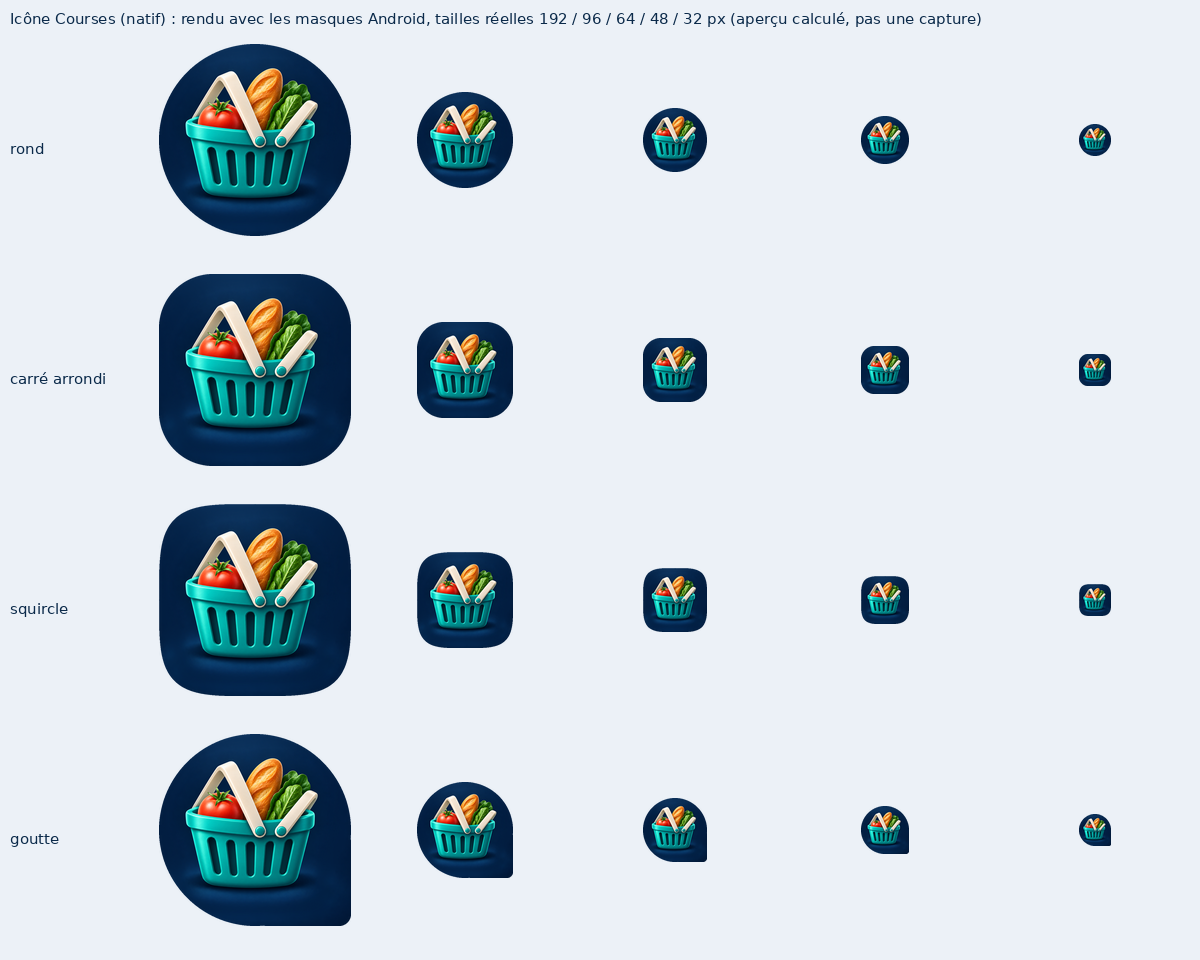
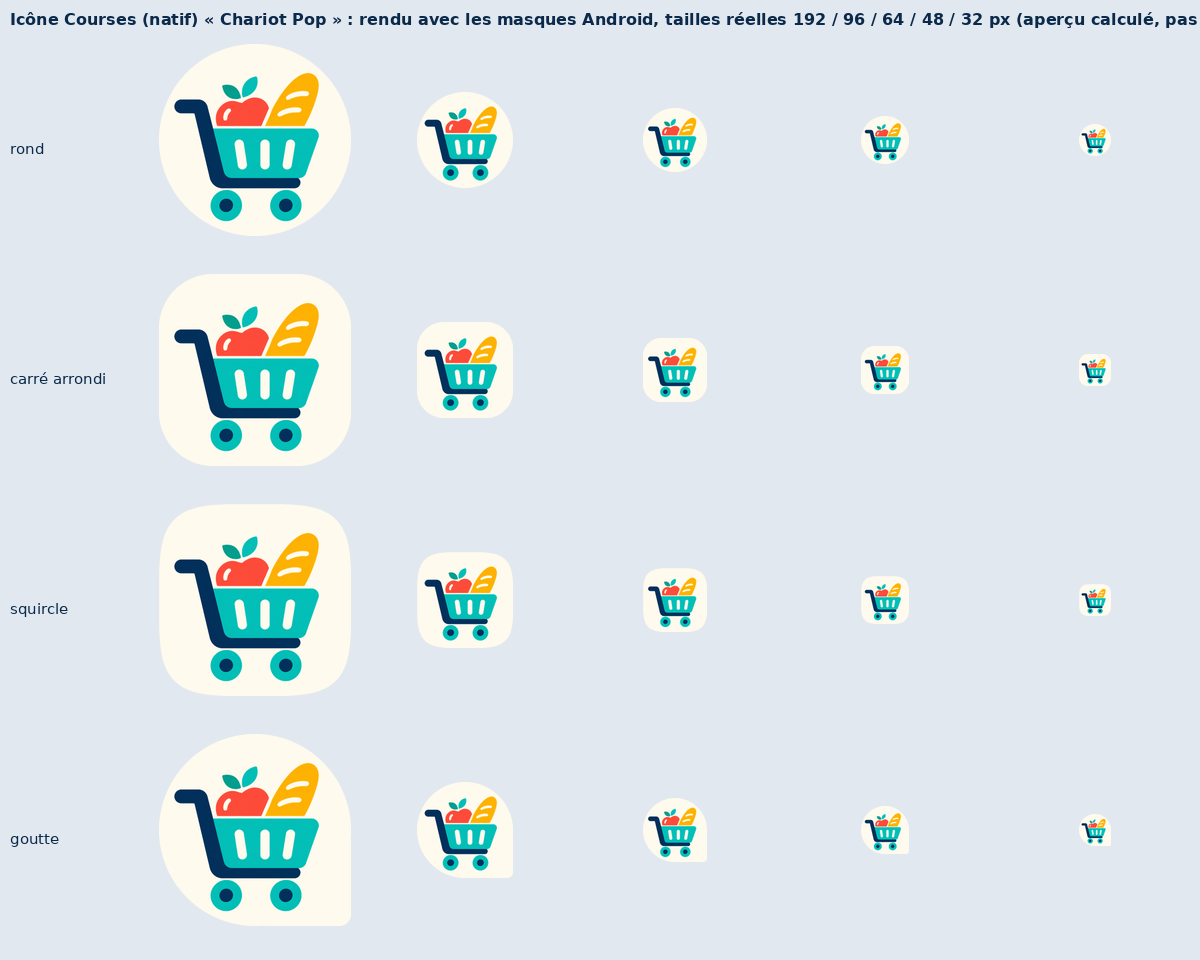
Natif : icône « Chariot Pop » (adaptative, monochrome, démarrage, Google Play 512, anciens appareils) [captures]
Claude-Session: https://claude.ai/code/session_01FECw7ZbTKUbi6W7escaKrV

diff --git a/scripts/make-native-icon.py b/scripts/make-native-icon.py
@@ -1,10 +1,12 @@
 #!/usr/bin/env python3
-"""Fabrique les ressources d'icône de l'application Android native à partir de l'image fournie (android-native/icon/courses-icon-source.png).
-Les pixels de l'image ne sont jamais redessinés ni recolorés : l'image est seulement mise à l'échelle et placée.
- - premier plan adaptatif : l'image elle-même, bords fondus (seule la marge bleu nuit s'efface) ;
- - arrière-plan adaptatif : le fond bleu nuit de l'image, débarrassé du panier (reconstitué par diffusion) et prolongé ;
- - monochrome : silhouette du panier (alpha) pour les icônes thématiques ;
- - anciennes icônes (carrée, ronde), écran de démarrage, PNG 512 Google Play ;
+"""Fabrique les ressources d'icône de l'application Android native à partir de l'image validée « Chariot Pop »
+(android-native/icon/courses-icon-source.png : chariot turquoise et bleu nuit, pomme corail, pain jaune, fond ivoire).
+Le dessin, les couleurs et les proportions ne sont jamais redessinés : l'image est seulement détourée sur son fond ivoire uni
+(le fond est reconstitué par la couleur d'arrière-plan), mise à l'échelle et centrée.
+ - premier plan adaptatif : le chariot, fond transparent, dans la zone sûre (66 dp de diamètre sur 108 dp) ;
+ - arrière-plan adaptatif : l'ivoire uni de l'image (aucun coin arrondi : Android applique le masque) ;
+ - monochrome : silhouette du chariot (alpha), fentes et reflets ajourés ;
+ - anciennes icônes (avant Android 8), écran de démarrage, PNG 512 × 512 Google Play (préparé, non publié) ;
  - aperçus avec masques rond / carré arrondi / squircle / goutte.
 Usage : python3 scripts/make-native-icon.py"""
 import os
@@ -14,201 +16,89 @@ from PIL import Image, ImageDraw, ImageFilter, ImageFont
 SRC = "android-native/icon/courses-icon-source.png"
 RES = "android-native/app/src/main/res"
 OUTDOCS = "docs/native/icone"
-SAFE_DP = 33.0
-FG_SCALE = float(os.environ.get("FG_SCALE", "1.0"))   # réduction du premier plan seul (0.85 = -15 %)
-FG_MODE = os.environ.get("FG_MODE", "image")          # image : image entière à bords fondus ; panier : image exacte, opaque autour du panier seulement
-DRY = os.environ.get("DRY") == "1"                    # DRY=1 : ne touche à aucune ressource, produit seulement la comparaison dans docs/native/icone-comparaison/  # rayon de la zone sûre d'une icône adaptative (66 dp de diamètre sur 108 dp)
+SAFE_DP = 33.0                    # rayon de la zone sûre d'une icône adaptative
+SPLASH_R_DP = 90.0                # rayon du chariot dans l'écran de démarrage (cercle visible : 96 dp)
 DENS = {"mdpi": (48, 108), "hdpi": (72, 162), "xhdpi": (96, 216), "xxhdpi": (144, 324), "xxxhdpi": (192, 432)}
 
 src = Image.open(SRC).convert("RGB")
 N = src.width
 a = np.asarray(src).astype(np.float32)
-r, g, b = a[..., 0], a[..., 1], a[..., 2]
+corner = np.concatenate([a[:24, :24].reshape(-1, 3), a[-24:, -24:].reshape(-1, 3), a[:24, -24:].reshape(-1, 3), a[-24:, :24].reshape(-1, 3)])
+BG = np.median(corner, axis=0)
+BG_HEX = "#%02X%02X%02X" % tuple(int(round(v)) for v in BG)
+print("fond ivoire", BG_HEX)
 
-# 1. Panier = tout ce qui n'est pas le fond bleu nuit (fond : bleu dominant, rouge quasi nul)
-bg_like = ((b - g) >= 18) & (r <= 25) & (b >= 45)
-mask = ~bg_like
-m_img = Image.fromarray((mask * 255).astype(np.uint8))
-m_img = m_img.filter(ImageFilter.MinFilter(5)).filter(ImageFilter.MaxFilter(5))  # retire le bruit isolé
-mask = np.asarray(m_img) > 127
-ys, xs = np.nonzero(mask)
+# 1. Détourage : écart à la couleur de fond. alpha = couverture ; couleur = couleur d'origine « dé-mélangée » du fond.
+d = np.linalg.norm(a - BG, axis=2)
+alpha = np.clip(d / 34.0, 0, 1)
+alpha[d < 5] = 0
+alpha = np.where(alpha > 0.995, 1.0, alpha)
+al = np.maximum(alpha, 1e-3)[..., None]
+fg_rgb = np.clip((a - (1 - alpha[..., None]) * BG) / al, 0, 255)
+fg_rgb[alpha == 0] = 0
+full = Image.fromarray(np.dstack([fg_rgb, alpha * 255]).astype(np.uint8), "RGBA")
 
-# 2. Plus petit cercle contenant le panier (Badoiu-Clarkson sur les points du contour)
-edge = mask & ~np.asarray(Image.fromarray((mask * 255).astype(np.uint8)).filter(ImageFilter.MinFilter(3))) > 127
-ey, ex = np.nonzero(mask & ~(np.asarray(Image.fromarray((mask * 255).astype(np.uint8)).filter(ImageFilter.MinFilter(3))) > 127))
+# 2. Plus petit cercle contenant le chariot (Badoiu-Clarkson)
+solid = d > 24
+m = Image.fromarray((solid * 255).astype(np.uint8)).filter(ImageFilter.MinFilter(5)).filter(ImageFilter.MaxFilter(5))
+solid = np.asarray(m) > 127
+edge = solid & ~(np.asarray(Image.fromarray((solid * 255).astype(np.uint8)).filter(ImageFilter.MinFilter(3))) > 127)
+ey, ex = np.nonzero(edge)
 pts = np.stack([ex, ey], 1).astype(np.float64)
 c = np.array([(pts[:, 0].min() + pts[:, 0].max()) / 2, (pts[:, 1].min() + pts[:, 1].max()) / 2])
 for i in range(1, 3000):
-    d = np.linalg.norm(pts - c, axis=1)
-    far = pts[d.argmax()]
+    far = pts[np.linalg.norm(pts - c, axis=1).argmax()]
     c = c + (far - c) / (i + 1)
 R = float(np.linalg.norm(pts - c, axis=1).max())
-print(f"panier : centre {c.round(1)}, rayon {R:.1f} px sur {N} px")
+print(f"chariot : centre {c.round(1)}, rayon {R:.1f} px sur {N} px")
 
-# 3. Fond sans panier : diffusion lisse dans la zone du panier (grille 128 px), puis prolongement
-G = 128
-_q = Image.fromarray((mask * 255).astype(np.uint8)).resize((N // 4, N // 4), Image.BILINEAR).filter(ImageFilter.MaxFilter(55))
-mask_d = _q.resize((N, N), Image.BICUBIC).point(lambda v: 255 if v > 40 else 0)
-small_mask = np.asarray(mask_d.resize((G, G), Image.BILINEAR)) > 20
-small = np.asarray(src.resize((G, G), Image.LANCZOS)).astype(np.float32)
-known = ~small_mask
-fill = small.copy()
-fill[small_mask] = small[known].mean(0)
-for _ in range(2500):
-    p = np.pad(fill, ((1, 1), (1, 1), (0, 0)), mode="edge")
-    avg = (p[:-2, 1:-1] + p[2:, 1:-1] + p[1:-1, :-2] + p[1:-1, 2:]) / 4
-    fill = np.where(small_mask[..., None], avg, small)
-up = np.asarray(Image.fromarray(np.clip(fill, 0, 255).astype(np.uint8)).resize((N, N), Image.BICUBIC)).astype(np.float32)
-soft = np.asarray(mask_d.filter(ImageFilter.GaussianBlur(26))).astype(np.float32)[..., None] / 255.0
-bg_full = a * (1 - soft) + up * soft          # fond de l'image sans le panier
-
-# 4. Mise à l'échelle : le panier entier dans la zone sûre, centré sur le centre du cercle
-MASTER = 1728                                   # 108 dp à 16 px/dp
+# 3. Couches adaptatives (grille maîtresse de 108 dp à 16 px/dp)
+MASTER = 1728
 f = (SAFE_DP * 16.0) / R
-size = int(round(N * f))
-ox = int(round(MASTER / 2 - c[0] * f)); oy = int(round(MASTER / 2 - c[1] * f))
-print(f"échelle {f:.3f} : image {size/16:.1f} dp dans 108 dp ; panier rayon {R*f/16:.1f} dp")
+size = int(round(N * f)); ox = int(round(MASTER / 2 - c[0] * f)); oy = int(round(MASTER / 2 - c[1] * f))
+print(f"échelle {f:.3f} : chariot de {(1087 - 160) * f / 16:.1f} dp de large dans les 108 dp ; rayon {R * f / 16:.1f} dp")
+fg = Image.new("RGBA", (MASTER, MASTER), (0, 0, 0, 0))
+fg.alpha_composite(full.resize((size, size), Image.LANCZOS), (ox, oy))
+background = Image.new("RGB", (MASTER, MASTER), tuple(int(round(v)) for v in BG))
 
-def place(img_arr_rgb, fill_edge_blur=True):
-    """Place l'image sur la grille maîtresse ; l'extérieur prolonge les bords en les lissant."""
-    im = Image.fromarray(np.clip(img_arr_rgb, 0, 255).astype(np.uint8)).resize((size, size), Image.LANCZOS)
-    pad = np.asarray(im).astype(np.float32)
-    big = np.pad(pad, ((max(oy, 0) + 40, max(MASTER - oy - size, 0) + 40), (max(ox, 0) + 40, max(MASTER - ox - size, 0) + 40), (0, 0)), mode="edge")
-    big_img = Image.fromarray(big.astype(np.uint8)).filter(ImageFilter.GaussianBlur(28))
-    bx = max(ox, 0) + 40 - ox; by = max(oy, 0) + 40 - oy
-    canvas = big_img.crop((bx, by, bx + MASTER, by + MASTER))
-    inside = Image.new("RGB", (MASTER, MASTER))
-    inside.paste(im, (ox, oy))
-    m = Image.new("L", (MASTER, MASTER), 0)
-    ImageDraw.Draw(m).rectangle([ox + 20, oy + 20, ox + size - 21, oy + size - 21], fill=255)
-    m = m.filter(ImageFilter.GaussianBlur(18))
-    return Image.composite(inside, canvas, m)
-
-background = place(bg_full)                      # arrière-plan : fond bleu nuit seul, prolongé
-
-def make_fg(scale, mode):
-    """Premier plan : l'image exacte (jamais redessinée), mise à l'échelle autour du même centre. Le fond bleu nuit (arrière-plan) n'est pas touché."""
-    fsz = int(round(N * f * scale))
-    fox = int(round(MASTER / 2 - c[0] * f * scale)); foy = int(round(MASTER / 2 - c[1] * f * scale))
-    layer = Image.new("RGBA", (MASTER, MASTER), (0, 0, 0, 0))
-    im_fg = src.resize((fsz, fsz), Image.LANCZOS).convert("RGBA")
-    if mode == "image":
-        fade = int(fsz * 0.07)
-        yy, xx = np.mgrid[0:fsz, 0:fsz]
-        dist = np.minimum.reduce([xx, yy, fsz - 1 - xx, fsz - 1 - yy]).astype(np.float32)
-        t = np.clip(dist / fade, 0, 1); alpha = (t * t * (3 - 2 * t) * 255).astype(np.uint8)
-    else:
-        # opaque sur le panier, ses produits, ses anses et l'ombre (zone dilatée), fondu doux au-delà : le reste montre l'arrière-plan
-        q = Image.fromarray((mask * 255).astype(np.uint8)).resize((N // 4, N // 4), Image.BILINEAR).filter(ImageFilter.MaxFilter(47))
-        q = q.filter(ImageFilter.GaussianBlur(11)).resize((N, N), Image.BICUBIC)
-        a_src = np.clip(np.asarray(q).astype(np.float32) / 255.0 * 1.6, 0, 1)
-        alpha = np.asarray(Image.fromarray((a_src * 255).astype(np.uint8)).resize((fsz, fsz), Image.LANCZOS))
-    im_fg.putalpha(Image.fromarray(alpha))
-    layer.alpha_composite(im_fg, (fox, foy))
-    return layer, fsz, fox, foy
-
-fg, fg_size, fg_ox, fg_oy = make_fg(FG_SCALE, FG_MODE)
-
-# monochrome : silhouette du panier (écart au fond), trous des fentes conservés
-diff = np.linalg.norm(a - bg_full, axis=2)
-mono_a = np.clip((diff - 45) / 45.0, 0, 1)
-mono_a = np.asarray(Image.fromarray((mono_a * 255).astype(np.uint8)).filter(ImageFilter.GaussianBlur(1.2)))
-mono_small = Image.fromarray(mono_a).resize((fg_size, fg_size), Image.LANCZOS)
+# monochrome : silhouette (reflets et fentes ajourés)
+mono_a = np.clip((d - 12) / 60.0, 0, 1)
+mono_a = np.asarray(Image.fromarray((mono_a * 255).astype(np.uint8)).filter(ImageFilter.GaussianBlur(0.8)))
+white = Image.new("RGBA", (N, N), (255, 255, 255, 255)); white.putalpha(Image.fromarray(mono_a))
 mono = Image.new("RGBA", (MASTER, MASTER), (0, 0, 0, 0))
-white = Image.new("RGBA", (fg_size, fg_size), (255, 255, 255, 255)); white.putalpha(mono_small)
-mono.alpha_composite(white, (fg_ox, fg_oy))
+mono.alpha_composite(white.resize((size, size), Image.LANCZOS), (ox, oy))
 
-def save_layers():
-    for d, (leg, lay) in DENS.items():
-        os.makedirs(f"{RES}/mipmap-{d}", exist_ok=True)
-        background.resize((lay, lay), Image.LANCZOS).save(f"{RES}/mipmap-{d}/ic_launcher_background.png", optimize=True)
-        fg.resize((lay, lay), Image.LANCZOS).save(f"{RES}/mipmap-{d}/ic_launcher_foreground.png", optimize=True)
-        mono.resize((lay, lay), Image.LANCZOS).save(f"{RES}/mipmap-{d}/ic_launcher_monochrome.png", optimize=True)
-        # anciennes versions d'Android (avant 8.0) : image pleine, carrée ; version ronde : découpe circulaire de l'image
-        sq = src.resize((leg, leg), Image.LANCZOS)
-        sq.save(f"{RES}/mipmap-{d}/ic_launcher.png", optimize=True)
-        big = src.resize((leg * 4, leg * 4), Image.LANCZOS).convert("RGBA")
-        circ = Image.new("L", big.size, 0); ImageDraw.Draw(circ).ellipse([0, 0, big.width - 1, big.height - 1], fill=255)
-        big.putalpha(circ); big.resize((leg, leg), Image.LANCZOS).save(f"{RES}/mipmap-{d}/ic_launcher_round.png", optimize=True)
+# 4. Ressources
+for dn, (leg, lay) in DENS.items():
+    os.makedirs(f"{RES}/mipmap-{dn}", exist_ok=True)
+    for old in ("ic_launcher_background.png",):
+        p = f"{RES}/mipmap-{dn}/{old}"
+        if os.path.exists(p): os.remove(p)
+    fg.resize((lay, lay), Image.LANCZOS).save(f"{RES}/mipmap-{dn}/ic_launcher_foreground.png", optimize=True)
+    mono.resize((lay, lay), Image.LANCZOS).save(f"{RES}/mipmap-{dn}/ic_launcher_monochrome.png", optimize=True)
+    # avant Android 8 : image pleine carrée ; ronde : découpe circulaire de l'image
+    src.resize((leg, leg), Image.LANCZOS).save(f"{RES}/mipmap-{dn}/ic_launcher.png", optimize=True)
+    big = src.resize((leg * 4, leg * 4), Image.LANCZOS).convert("RGBA")
+    circ = Image.new("L", big.size, 0); ImageDraw.Draw(circ).ellipse([0, 0, big.width - 1, big.height - 1], fill=255)
+    big.putalpha(circ); big.resize((leg, leg), Image.LANCZOS).save(f"{RES}/mipmap-{dn}/ic_launcher_round.png", optimize=True)
+open(f"{RES}/values/colors_icon.xml", "w").write(f'<?xml version="1.0" encoding="utf-8"?>\n<resources>\n    <color name="ic_launcher_background">{BG_HEX}</color>\n    <color name="splash_bg">{BG_HEX}</color>\n</resources>\n')
+sp = f"{RES}/values/colors_splash.xml"
+if os.path.exists(sp): os.remove(sp)
+for name in ("ic_launcher.xml", "ic_launcher_round.xml"):
+    open(f"{RES}/mipmap-anydpi-v26/{name}", "w").write('''<?xml version="1.0" encoding="utf-8"?>
+<adaptive-icon xmlns:android="http://schemas.android.com/apk/res/android">
+    <background android:drawable="@color/ic_launcher_background" />
+    <foreground android:drawable="@mipmap/ic_launcher_foreground" />
+    <monochrome android:drawable="@mipmap/ic_launcher_monochrome" />
+</adaptive-icon>
+''')
 
-def composite_layers(bgl, fgl, lay_px):
-    bgp = bgl.resize((lay_px, lay_px), Image.LANCZOS).convert("RGBA")
-    bgp.alpha_composite(fgl.resize((lay_px, lay_px), Image.LANCZOS))
-    k = lay_px / 108.0
-    return bgp.crop((int(18 * k), int(18 * k), int(90 * k), int(90 * k)))
-
-if DRY:
-    cmp_dir = "docs/native/icone-comparaison"; os.makedirs(cmp_dir, exist_ok=True)
-    fg_before, *_ = make_fg(1.0, "image")
-    fg_after, *_ = make_fg(0.85, "basket")
-    try:
-        F = ImageFont.truetype("/usr/share/fonts/truetype/dejavu/DejaVuSans.ttf", 15); FB = ImageFont.truetype("/usr/share/fonts/truetype/dejavu/DejaVuSans-Bold.ttf", 16)
-    except Exception:
-        F = FB = None
-    def msk(kind, s):
-        m = Image.new("L", (s * 4, s * 4), 0); d = ImageDraw.Draw(m); S = s * 4
-        if kind == "rond": d.ellipse([0, 0, S - 1, S - 1], fill=255)
-        else: d.rounded_rectangle([0, 0, S - 1, S - 1], radius=int(S * 0.28), fill=255)
-        return m.resize((s, s), Image.LANCZOS)
-    D = 3  # 3 px par dp (écran xxhdpi) : un icône de 48 dp mesure 144 px, de 64 dp 192 px
-    cols = [("rond", 48), ("rond", 64), ("carré arrondi", 48), ("carré arrondi", 64)]
-    cw, ch = 250, 250
-    Wc = 150 + cw * len(cols); Hc = 90 + 2 * ch + 40
-    sheet = Image.new("RGB", (Wc, Hc), (236, 241, 247)); dr = ImageDraw.Draw(sheet)
-    dr.text((10, 10), "Comparaison avant / après : premier plan réduit de 15 % (fond bleu nuit inchangé), tailles réelles à 3 px/dp", fill=(11, 42, 74), font=FB)
-    for ci, (kd, dp) in enumerate(cols):
-        dr.text((150 + ci * cw + 20, 50), f"{kd} · {dp} dp", fill=(11, 42, 74), font=F)
-    for ri, (name, layer) in enumerate([("AVANT", fg_before), ("APRÈS (−15 %)", fg_after)]):
-        y0 = 80 + ri * (ch + 20)
-        dr.text((10, y0 + 100), name, fill=(11, 42, 74), font=FB)
-        for ci, (kd, dp) in enumerate(cols):
-            px = dp * D
-            ic = composite_layers(background, layer, 432).resize((px, px), Image.LANCZOS)
-            tile = Image.new("RGBA", (px, px), (0, 0, 0, 0)); tile.paste(ic, (0, 0)); tile.putalpha(msk(kd, px))
-            sheet.paste(tile, (150 + ci * cw + (cw - px) // 2, y0 + (ch - px) // 2), tile)
-    sheet.save(f"{cmp_dir}/avant-apres-48-64.png", optimize=True)
-    # grande version pour juger les proportions (192 dp à 3 px/dp = 576 px) + couches
-    big = Image.new("RGB", (576 * 2 + 30, 2 * 0 + 576 + 60), (236, 241, 247)); d2 = ImageDraw.Draw(big)
-    for i, (nm, layer) in enumerate([("AVANT", fg_before), ("APRÈS (−15 %)", fg_after)]):
-        ic = composite_layers(background, layer, 864).resize((576, 576), Image.LANCZOS)
-        t = Image.new("RGBA", (576, 576), (0, 0, 0, 0)); t.paste(ic, (0, 0)); t.putalpha(msk("carré arrondi", 576))
-        big.paste(t, (i * 606, 50), t); d2.text((i * 606 + 10, 15), nm + " · carré arrondi", fill=(11, 42, 74), font=FB)
-    big.save(f"{cmp_dir}/avant-apres-grand.png", optimize=True)
-    # mesures
-    def bbox_ratio(layer):
-        al = np.asarray(layer)[..., 3]
-        return None
-    print("comparaison écrite dans", cmp_dir)
-    raise SystemExit(0)
-
-save_layers()
-
-# écran de démarrage : le panier dans le cercle de 192 dp (toile de 288 dp à 4 px/dp)
-SPL = 1152
-fs = (90.0 * 4.0) / R * FG_SCALE
-ssz = int(round(N * fs))
-sp = src.resize((ssz, ssz), Image.LANCZOS).convert("RGBA")
-fade2 = int(ssz * 0.18)
-yy, xx = np.mgrid[0:ssz, 0:ssz]
-dist2 = np.minimum.reduce([xx, yy, ssz - 1 - xx, ssz - 1 - yy]).astype(np.float32)
-t2 = np.clip(dist2 / fade2, 0, 1)
-sp.putalpha(Image.fromarray((t2 * t2 * (3 - 2 * t2) * 255).astype(np.uint8)))
+# écran de démarrage : le chariot (fond transparent) sur l'ivoire, dans le cercle de 192 dp (toile de 288 dp à 4 px/dp)
+SPL = 1152; fs = (SPLASH_R_DP * 4.0) / R; ssz = int(round(N * fs))
 splash = Image.new("RGBA", (SPL, SPL), (0, 0, 0, 0))
-splash.alpha_composite(sp, (int(SPL / 2 - c[0] * fs), int(SPL / 2 - c[1] * fs)))
+splash.alpha_composite(full.resize((ssz, ssz), Image.LANCZOS), (int(SPL / 2 - c[0] * fs), int(SPL / 2 - c[1] * fs)))
 os.makedirs(f"{RES}/drawable-nodpi", exist_ok=True)
 splash.save(f"{RES}/drawable-nodpi/ic_splash.png", optimize=True)
-# couleur de fond du démarrage : médiane du fond de l'image autour du cercle de 96 dp
-ang = np.linspace(0, 2 * np.pi, 360, endpoint=False)
-rad = 96.0 * 4.0 / fs
-samples = []
-for t_ in ang:
-    x = int(c[0] + rad * np.cos(t_)); y = int(c[1] + rad * np.sin(t_))
-    if 0 <= x < N and 0 <= y < N:
-        samples.append(a[y, x])
-med = np.median(np.array(samples), axis=0).astype(int)
-print("fond de démarrage :", "#%02X%02X%02X" % tuple(med))
-open(f"{RES}/values/colors_splash.xml", "w").write(
-    '<?xml version="1.0" encoding="utf-8"?>\n<resources>\n    <color name="splash_bg">#%02X%02X%02X</color>\n</resources>\n' % tuple(med))
 
 # Google Play : 512 x 512, image pleine, sans coins arrondis (le Play Store applique son masque) — préparé, non publié
 os.makedirs("android-native/store", exist_ok=True); os.makedirs(OUTDOCS, exist_ok=True)
@@ -216,54 +106,47 @@ play = src.resize((512, 512), Image.LANCZOS).convert("RGBA")
 play.save("android-native/store/ic_launcher_512.png", optimize=True)
 play.save(f"{OUTDOCS}/google-play-512.png", optimize=True)
 
-# aperçus avec masques : composition arrière-plan + premier plan, partie visible = 72 dp au centre
-def composite(lay_px):
-    bgp = background.resize((lay_px, lay_px), Image.LANCZOS).convert("RGBA")
-    fgp = fg.resize((lay_px, lay_px), Image.LANCZOS)
-    bgp.alpha_composite(fgp)
-    k = lay_px / 108.0
+# 5. Aperçus : arrière-plan + premier plan, partie visible = 72 dp au centre, avec les masques d'Android
+def composite(px):
+    bgp = background.resize((px, px), Image.LANCZOS).convert("RGBA")
+    bgp.alpha_composite(fg.resize((px, px), Image.LANCZOS))
+    k = px / 108.0
     return bgp.crop((int(18 * k), int(18 * k), int(90 * k), int(90 * k)))
 
 def shape_mask(kind, s):
-    m = Image.new("L", (s * 4, s * 4), 0); d = ImageDraw.Draw(m); S = s * 4
-    if kind == "rond":
-        d.ellipse([0, 0, S - 1, S - 1], fill=255)
-    elif kind == "carré arrondi":
-        d.rounded_rectangle([0, 0, S - 1, S - 1], radius=int(S * 0.28), fill=255)
+    S = s * 4; mk = Image.new("L", (S, S), 0); d_ = ImageDraw.Draw(mk)
+    if kind == "rond": d_.ellipse([0, 0, S - 1, S - 1], fill=255)
+    elif kind == "carré arrondi": d_.rounded_rectangle([0, 0, S - 1, S - 1], radius=int(S * 0.28), fill=255)
     elif kind == "squircle":
         yy, xx = np.mgrid[0:S, 0:S]; u = (xx - S / 2) / (S / 2); v = (yy - S / 2) / (S / 2)
-        m = Image.fromarray(((np.abs(u) ** 4 + np.abs(v) ** 4) <= 1).astype(np.uint8) * 255)
-    else:  # goutte : trois coins arrondis, un coin presque vif
-        d.rounded_rectangle([0, 0, S - 1, S - 1], radius=int(S * 0.5), fill=255)
-        d.rounded_rectangle([int(S * 0.5), int(S * 0.5), S - 1, S - 1], radius=int(S * 0.06), fill=255)
-    return m.resize((s, s), Image.LANCZOS)
+        mk = Image.fromarray(((np.abs(u) ** 4 + np.abs(v) ** 4) <= 1).astype(np.uint8) * 255)
+    else:
+        d_.rounded_rectangle([0, 0, S - 1, S - 1], radius=int(S * 0.5), fill=255)
+        d_.rounded_rectangle([int(S * 0.5), int(S * 0.5), S - 1, S - 1], radius=int(S * 0.06), fill=255)
+    return mk.resize((s, s), Image.LANCZOS)
 
-kinds = ["rond", "carré arrondi", "squircle", "goutte"]
-sizes = [192, 96, 64, 48, 32]
-cell = 210; Wp = 150 + cell * len(sizes); Hp = 40 + 230 * len(kinds)
-sheet = Image.new("RGB", (Wp, Hp), (236, 241, 247)); dr = ImageDraw.Draw(sheet)
 try:
-    FONT = ImageFont.truetype("/usr/share/fonts/truetype/dejavu/DejaVuSans.ttf", 15)
+    FONT = ImageFont.truetype("/usr/share/fonts/truetype/dejavu/DejaVuSans.ttf", 15); FB = ImageFont.truetype("/usr/share/fonts/truetype/dejavu/DejaVuSans-Bold.ttf", 16)
 except Exception:
-    FONT = None
-dr.text((10, 10), "Icône Courses (natif) : rendu avec les masques Android, tailles réelles 192 / 96 / 64 / 48 / 32 px (aperçu calculé, pas une capture)", fill=(11, 42, 74), font=FONT)
+    FONT = FB = None
+kinds = ["rond", "carré arrondi", "squircle", "goutte"]; sizes = [192, 96, 64, 48, 32]
+cell = 210; Wp = 150 + cell * len(sizes); Hp = 40 + 230 * len(kinds)
+sheet = Image.new("RGB", (Wp, Hp), (226, 232, 240)); dr = ImageDraw.Draw(sheet)
+dr.text((10, 10), "Icône Courses (natif) « Chariot Pop » : rendu avec les masques Android, tailles réelles 192 / 96 / 64 / 48 / 32 px (aperçu calculé, pas une capture)", fill=(11, 42, 74), font=FB)
 for i, kd in enumerate(kinds):
     y0 = 40 + i * 230
     dr.text((10, y0 + 100), kd, fill=(11, 42, 74), font=FONT)
     x = 150
     for s in sizes:
         ic = composite(max(s * 3 // 2 * 2, 108)).resize((s, s), Image.LANCZOS)
-        mk = shape_mask(kd, s)
-        tile = Image.new("RGBA", (s, s), (0, 0, 0, 0)); tile.paste(ic, (0, 0)); tile.putalpha(mk)
+        tile = Image.new("RGBA", (s, s), (0, 0, 0, 0)); tile.paste(ic, (0, 0)); tile.putalpha(shape_mask(kd, s))
         sheet.paste(tile, (x + (cell - s) // 2, y0 + (200 - s) // 2), tile)
         x += cell
 sheet.save(f"{OUTDOCS}/apercu-masques.png", optimize=True)
-# couches séparées, pour contrôle
-fgprev = Image.new("RGB", (432, 432), (200, 200, 200)); fgprev.paste(fg.resize((432, 432)), (0, 0), fg.resize((432, 432)))
-lay = Image.new("RGB", (432 * 4 + 30, 432), (236, 241, 247))
-lay.paste(background.resize((432, 432)), (0, 0)); lay.paste(fgprev, (442, 0))
-mprev = Image.new("RGB", (432, 432), (30, 30, 30)); mprev.paste(mono.resize((432, 432)), (0, 0), mono.resize((432, 432)))
-lay.paste(mprev, (884, 0))
-comp = composite(432).resize((432, 432)); lay.paste(comp.convert("RGB"), (1326, 0))
+lay = Image.new("RGB", (432 * 4 + 30, 432), (226, 232, 240))
+lay.paste(background.resize((432, 432)), (0, 0))
+chk = Image.new("RGB", (432, 432), (200, 200, 200)); fgp = fg.resize((432, 432)); chk.paste(fgp, (0, 0), fgp); lay.paste(chk, (442, 0))
+mprev = Image.new("RGB", (432, 432), (30, 30, 30)); mp = mono.resize((432, 432)); mprev.paste(mp, (0, 0), mp); lay.paste(mprev, (884, 0))
+lay.paste(composite(432).resize((432, 432)).convert("RGB"), (1326, 0))
 lay.save(f"{OUTDOCS}/couches.png", optimize=True)
 print("ok")
